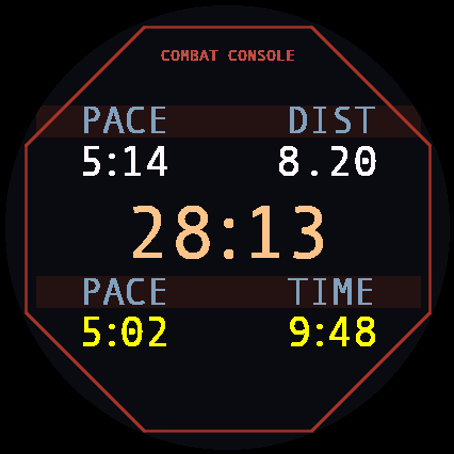
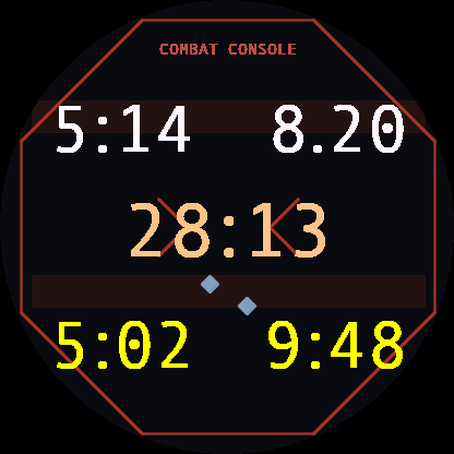
release prep v0.1.3: refresh listing assets
- CHANGELOG.md: add [0.1.3] (configurable fields SP1 + layout presets SP2 +
  refreshed look).
- store/description.txt: new "Make it yours" body section (any metric per field,
  1-5 fields, optional labels) + a 0.1.3 "What's changed" entry. No ">" chars.
- store/screenshots/ (all 8, preview + hero) recaptured on fr965 at the SP2
  default look — 5-field, labels off, bigger values, retuned decorations — at
  the standard sample pose (5:14 / 8.20 / 28:13 / 5:02 / 9:48); hero.png rebuilt.

Gate for tools/release.sh v0.1.3 (both CHANGELOG + description carry 0.1.3).

diff --git a/CHANGELOG.md b/CHANGELOG.md
@@ -10,6 +10,20 @@ There is no version field in the Connect IQ manifest; the git tag is the version
 
 ## [Unreleased]
 
+## [0.1.3] - 2026-07-09
+
+- Configurable fields: pick any of 17 metrics (or Off) for each of the five
+  positions — pace, distance, heart rate, cadence, elevation, calories, speed,
+  clock, and their lap/average variants — from the Garmin Connect app, with an
+  optional field-label toggle (default off).
+- Layout presets: a new Layout setting (5 / 4 / 3 / 2 / 1 fields). Fewer fields
+  render larger type, so you can trade detail for legibility — the fix for
+  small values on smaller screens. Values auto-shrink to fit their slot, so a
+  long value (a multi-hour time, or distance past 100) never clips.
+- Refreshed look: larger 5-field values, retuned per-theme decorations
+  (Cockpit/Bridge blips, a Bridge centre reticle, Cockpit reticles pulled to
+  the bezel), and tighter number kerning. Still requests no permissions.
+
 ## [0.1.2] - 2026-07-04
 
 - Brighter, more legible metric values on the dark faces: the session (top) row
